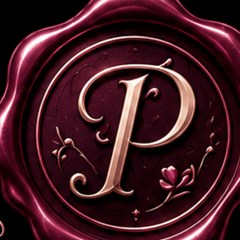
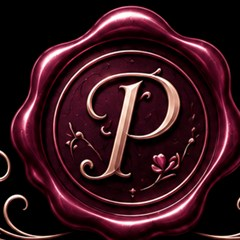
Companion Chronicle: fix seal crop, bigger frameless thread locks, lower profile
Owner follow-ups:
1. Thread-card lock: removed the circular pill frame (border + shadow) and
   made the heart-lock bigger (36 -> 56px, contain) so it reads as a plain
   medallion on the dark card.
2. Active-companion profile lower: transform translateY(16px) on
   .cc-active-portrait (object-position was already at its limit).
3. Wax seal not cropped properly: re-cropped seal-lock.jpg with a generous
   margin (0.88*H) so the scalloped edge is fully captured; badge shows it
   at 70px cover, nothing cut.

Verified live: portrait translateY 16; seal 70px; pill 56px, border 0,
contain, no shadow.

diff --git a/css/screens/select.css b/css/screens/select.css
@@ -610,6 +610,9 @@ body:has(#daily-reward-overlay:not(.hidden)) #select-screen {
     position: relative;
     width: 130px;
     height: 160px;
+    /* Nudge the whole silhouette + seal lower in the card (owner: "the
+       profile needs to be lower") — object-position alone was at its limit. */
+    transform: translateY(16px);
     /* No frame — the character art floats with just the per-character
        glow halo. Background, border, and inset shadow removed June 2026. */
     border-radius: 0;
@@ -825,9 +828,11 @@ body:has(#daily-reward-overlay:not(.hidden)) #select-screen {
     top: 50%;
     left: 50%;
     transform: translate(-50%, -50%);
-    width: 62px;
-    height: 62px;
+    width: 70px;
+    height: 70px;
     border-radius: 50%;
+    /* Re-cropped seal now has margin, so cover fills the disc without cutting
+       the scalloped edge (owner: "the wax seal is not cropped properly"). */
     background: url('../../assets/ui/seal-lock.jpg') center / cover no-repeat;
     box-shadow: 0 4px 16px rgba(0, 0, 0, 0.6);
     z-index: 2;
@@ -1230,13 +1235,19 @@ body:has(#daily-reward-overlay:not(.hidden)) #select-screen {
     z-index: 3;
 }
 .cc-locked-lock-icon { display: none; } /* replaced by the heart-lock image */
-/* Heart-lock medallion instead of the 🔒 emoji on locked thread cards
-   (owner: change the lock to the heart-padlock icon). */
+/* Heart-lock medallion instead of the 🔒 emoji — bigger, and with the pill's
+   circular frame removed (owner: "remove the circle out and make the heart
+   lock icon bigger"). The medallion art is on black, so it blends onto the
+   dark card with no visible frame. */
 .cc-thread-locked .cc-locked-pill,
 .cc-thread-card.ms-locked .cc-locked-pill,
 .cc-thread-card.select-card-locked .cc-locked-pill {
-    background: url('../../assets/ui/chapter-lock.jpg') center / cover no-repeat;
-    border-color: rgba(232, 200, 138, 0.75);
+    width: 56px;
+    height: 56px;
+    bottom: 8px;
+    background: url('../../assets/ui/chapter-lock.jpg') center / contain no-repeat;
+    border: none;
+    box-shadow: none;
 }
 
 /* "LOCKED" pill badge below the role */

diff --git a/sw.js b/sw.js
@@ -1,4 +1,4 @@
-const CACHE_NAME = 'pocket-love-v1055';
+const CACHE_NAME = 'pocket-love-v1056';
 
 // -----------------------------------------------------------------------------
 // CORE_ASSETS — the manifest. Must match the <script> tags in index.html so
